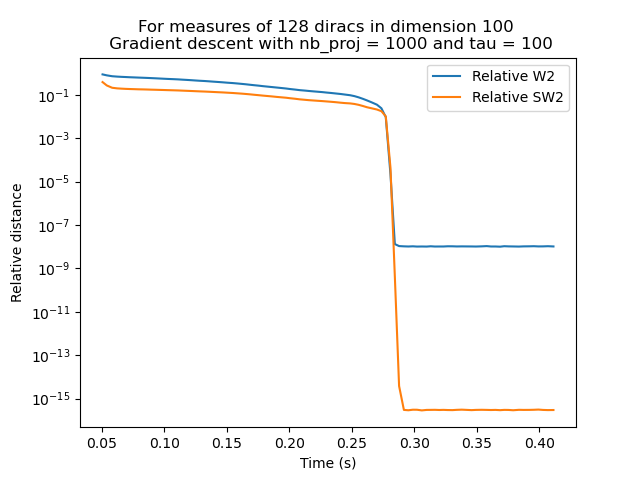
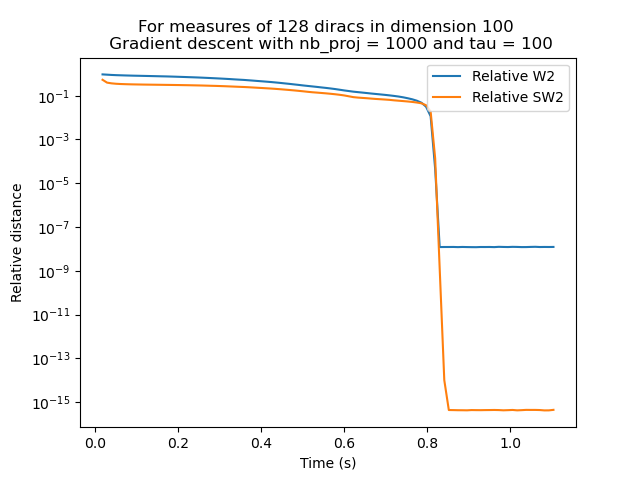
results flow

diff --git a/files/Results_flow/results_swflow_d100.html b/files/Results_flow/results_swflow_d100.html
@@ -157,13 +157,31 @@
   <h2>Graphs</h2>
 
   <img src="flow_d100m128.png" alt="Convergence speed of sw flow" style="width: 100%; max-width: 800px; margin-bottom: 20px;" />
-  <img src="flow_d100m4096.png" alt="Convergence speed of sw flow" style="width: 100%; max-width: 800px; margin-bottom: 20px;" />
+  <img src="flow_d100m4096_2.png" alt="Convergence speed of sw flow" style="width: 100%; max-width: 800px; margin-bottom: 20px;" />
   
   <h2>Same graphs in time</h2>
   
   <img src="flow_d100m128time.png" alt="Convergence speed of sw flow" style="width: 100%; max-width: 800px; margin-bottom: 20px;" />
-  <img src="flow_d100m4096time.png" alt="Convergence speed of sw flow" style="width: 100%; max-width: 800px; margin-bottom: 20px;" />
+  <img src="flow_d100m4096time_2.png" alt="Convergence speed of sw flow" style="width: 100%; max-width: 800px; margin-bottom: 20px;" />
   
+  <h2>Graphs when descending on 8 random subdimension</h2>
+
+  <img src="flow_d100m128_subdim.png" alt="Convergence speed of sw flow" style="width: 100%; max-width: 800px; margin-bottom: 20px;" />
+  <img src="flow_d100m128_subdim_time.png" alt="Convergence speed of sw flow" style="width: 100%; max-width: 800px; margin-bottom: 20px;" />
+
+  <p>
+  Time percentage: 
+  sort 0.4536 
+  matrix products 0.3367 
+  random generator 0.1481 
+  affectation 0.0715
+  </p>
+
+  <img src="flow_d100m4096_subdim.png" alt="Convergence speed of sw flow" style="width: 100%; max-width: 800px; margin-bottom: 20px;" />
+  <img src="flow_d100m4096_subdim_time.png" alt="Convergence speed of sw flow" style="width: 100%; max-width: 800px; margin-bottom: 20px;" />
+
+
+
  <script>
   function sortTableById(tableId, columnIndex) {
     const table = document.getElementById(tableId);
